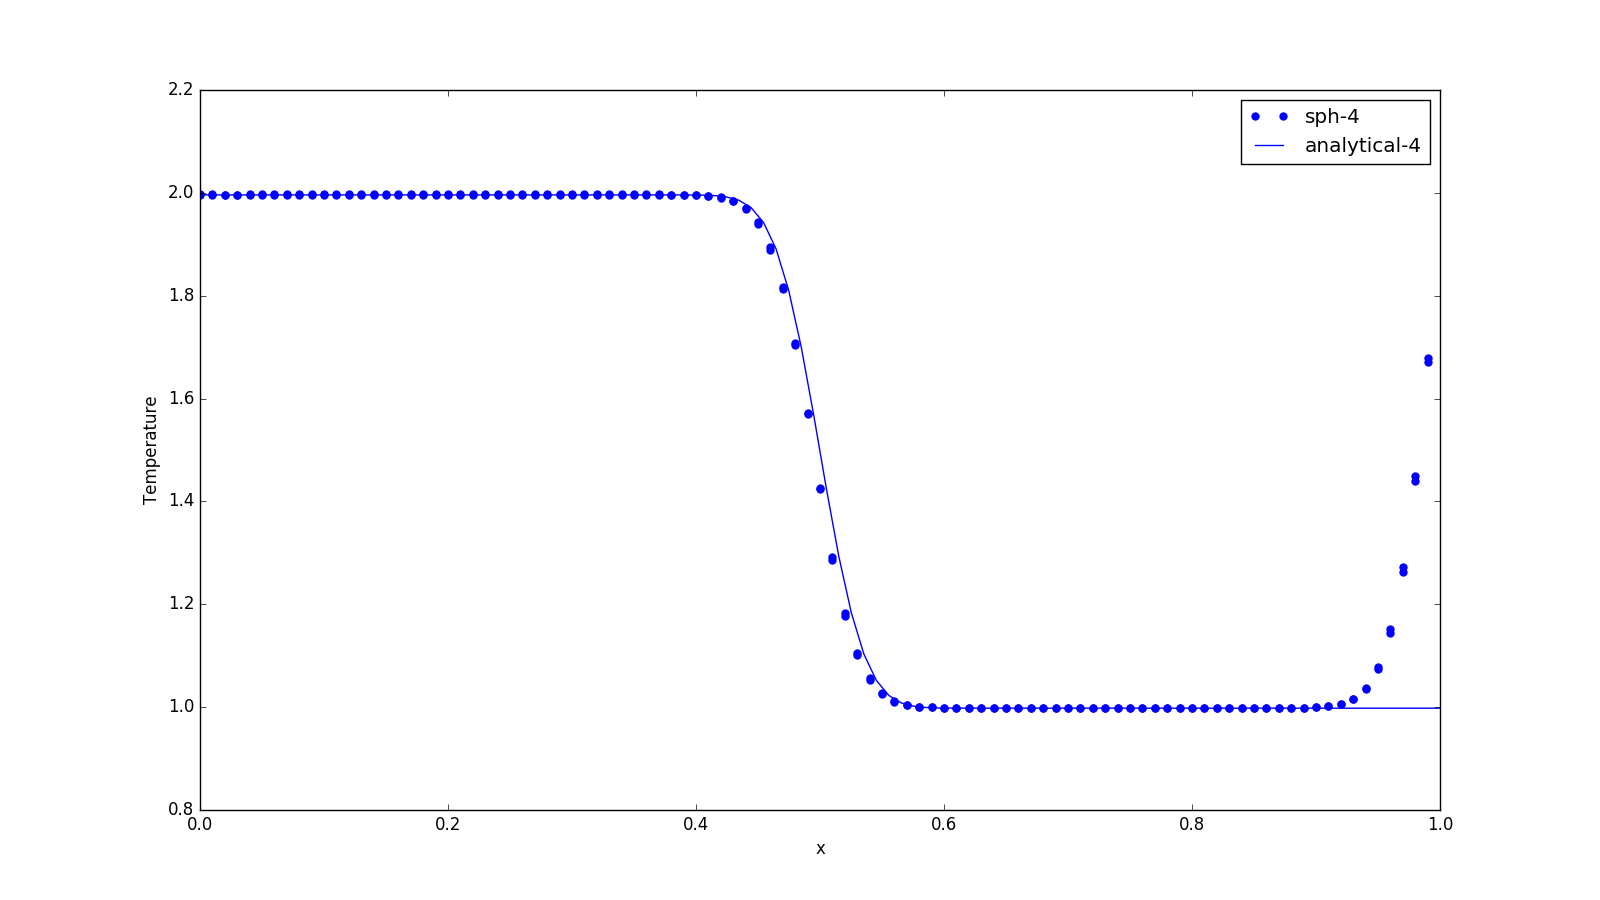
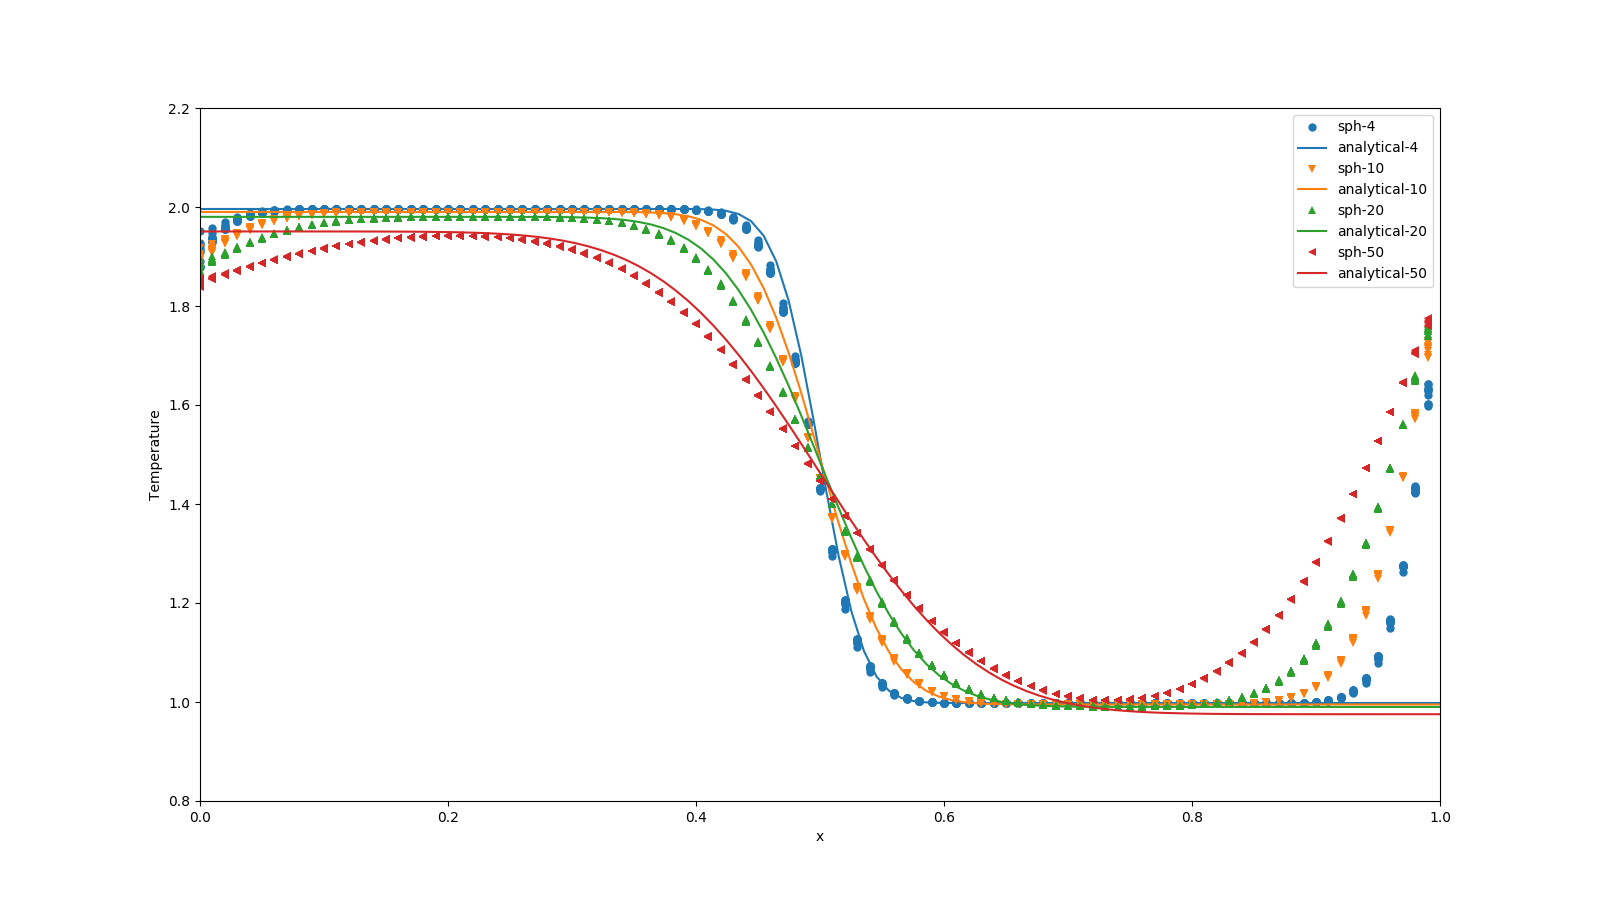
It works... why?

diff --git a/concentration_diffusion/plot_graph.py b/concentration_diffusion/plot_graph.py
@@ -15,7 +15,7 @@ Lx = 1.0
 xc = 0.5*Lx
 
 # Time series
-T = [4] #, 10, 20, 50]
+T = [4, 10, 20, 50]
 
 # plot
 plt.figure(figsize=(16, 9))
